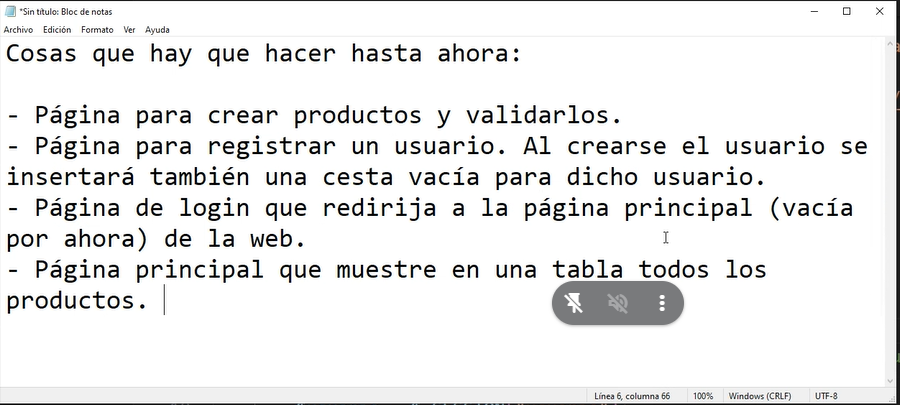
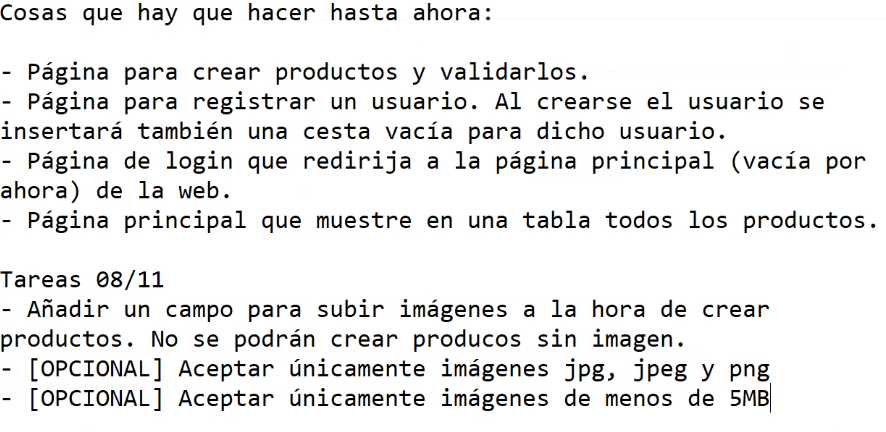
Guardado de productos con imagen

Changed region(s): [[0.0, 0.0, 1.0, 1.0]]

diff --git a/php/insertarProductos.php b/php/insertarProductos.php
@@ -4,45 +4,73 @@
         <meta charset="UTF-8">
         <meta name="viewport" content="width=device-width, initial-scale=1.0">
         <title>Insertar productos</title>
+        <link rel="stylesheet" href="../css/bootstrap.min.css">
     </head>
     <body>
-        <h1>Insertar productos</h1>
-        <form action="" method="post">
-            <div>
-                <label for="idProducto">Id del producto</label>
-                <input type="text" name="idProducto" id="idProducto">
-            </div>
-            <div>
-                <label for="nombre">Nombre del producto</label>
-                <input type="text" name="nombre" id="nombre">
-            </div>
-            <div>
-                <label for="precio">Precio</label>
-                <input type="number" name="precio" id="precio">
-            </div>
-            <div>
-                <label for="descripcion">Descripcion</label>
-                <input type="text" name="descripcion" id="descripcion">
-            </div>
-            <div>
-                <label for="cantidad">Cantidad del producto</label>
-                <input type="number" name="cantidad" id="cantidad">
-            </div>
-            <input type="submit" value="Enviar">
-            <?php
-                require "funciones.php";
-                if($_SERVER["REQUEST_METHOD"] == "POST"){
-                    $id = $_POST["idProducto"];
-                    $nombre = $_POST["nombre"];
-                    $precio = $_POST["precio"];
-                    $descripcion = $_POST["descripcion"];
-                    $cantidad = $_POST["cantidad"];
+        <div class="container">
+            <h1>Insertar productos</h1>
+            <form action="" method="post" enctype="multipart/form-data">
+                <div>
+                    <label for="idProducto">Id del producto</label>
+                    <input type="text" name="idProducto" id="idProducto">
+                </div>
+                <div>
+                    <label for="nombre">Nombre del producto</label>
+                    <input type="text" name="nombre" id="nombre">
+                </div>
+                <div>
+                    <label for="precio">Precio</label>
+                    <input type="number" name="precio" id="precio">
+                </div>
+                <div>
+                    <label for="descripcion">Descripcion</label>
+                    <input type="text" name="descripcion" id="descripcion">
+                </div>
+                <div>
+                    <label for="cantidad">Cantidad del producto</label>
+                    <input type="number" name="cantidad" id="cantidad">
+                </div>
+                <div>
+                    <label for="imagen">Imagen del producto</label>
+                    <input type="file" name="imagen" id="imagen">
+                </div>
+                <input type="submit" value="Enviar">
+                <?php
+                    require "funciones.php";
+                    if($_SERVER["REQUEST_METHOD"] == "POST"){
+                        $id = $_POST["idProducto"];
+                        $nombre = $_POST["nombre"];
+                        $precio = $_POST["precio"];
+                        $descripcion = $_POST["descripcion"];
+                        $cantidad = $_POST["cantidad"];
+                        $imagen = $_FILES["imagen"];
 
-                    $conexion = sqlConexionProyectoSupermercado();
-                    $sql = "INSERT into productos values('$id','$nombre','$precio','$descripcion','$cantidad')";
-                    $conexion -> query($sql);
-                }
-            ?>
-        </form>
+                        $cond1 = false;
+                        $cond2 = false;
+                        $cond3 = false;
+
+                        //Validacion
+                        if(!$imagen){
+                            echo "Error la imagen es obligatoria";
+                        }else{
+                            if($imagen["type"] != "image/jpeg" && $imagen["type"] != "image/jpg" && $imagen["type"] != "image/png"){
+                                echo "Error en el formato de imagen";
+                            }else{
+                                if($imagen["size"]>5*1024*1024){
+                                    echo "";
+                                }else{
+                                    $ruta = "media/" . $imagen["name"];
+                                    move_uploaded_file($imagen["tmp_name"],$ruta);
+                                }
+                            }
+                        }
+
+                        $conexion = sqlConexionProyectoSupermercado();
+                        $sql = "INSERT into productos values('$id','$nombre','$precio','$descripcion','$cantidad','$ruta')";
+                        $conexion -> query($sql);
+                    }
+                ?>
+            </form>
+        </div>
     </body>
 </html>
